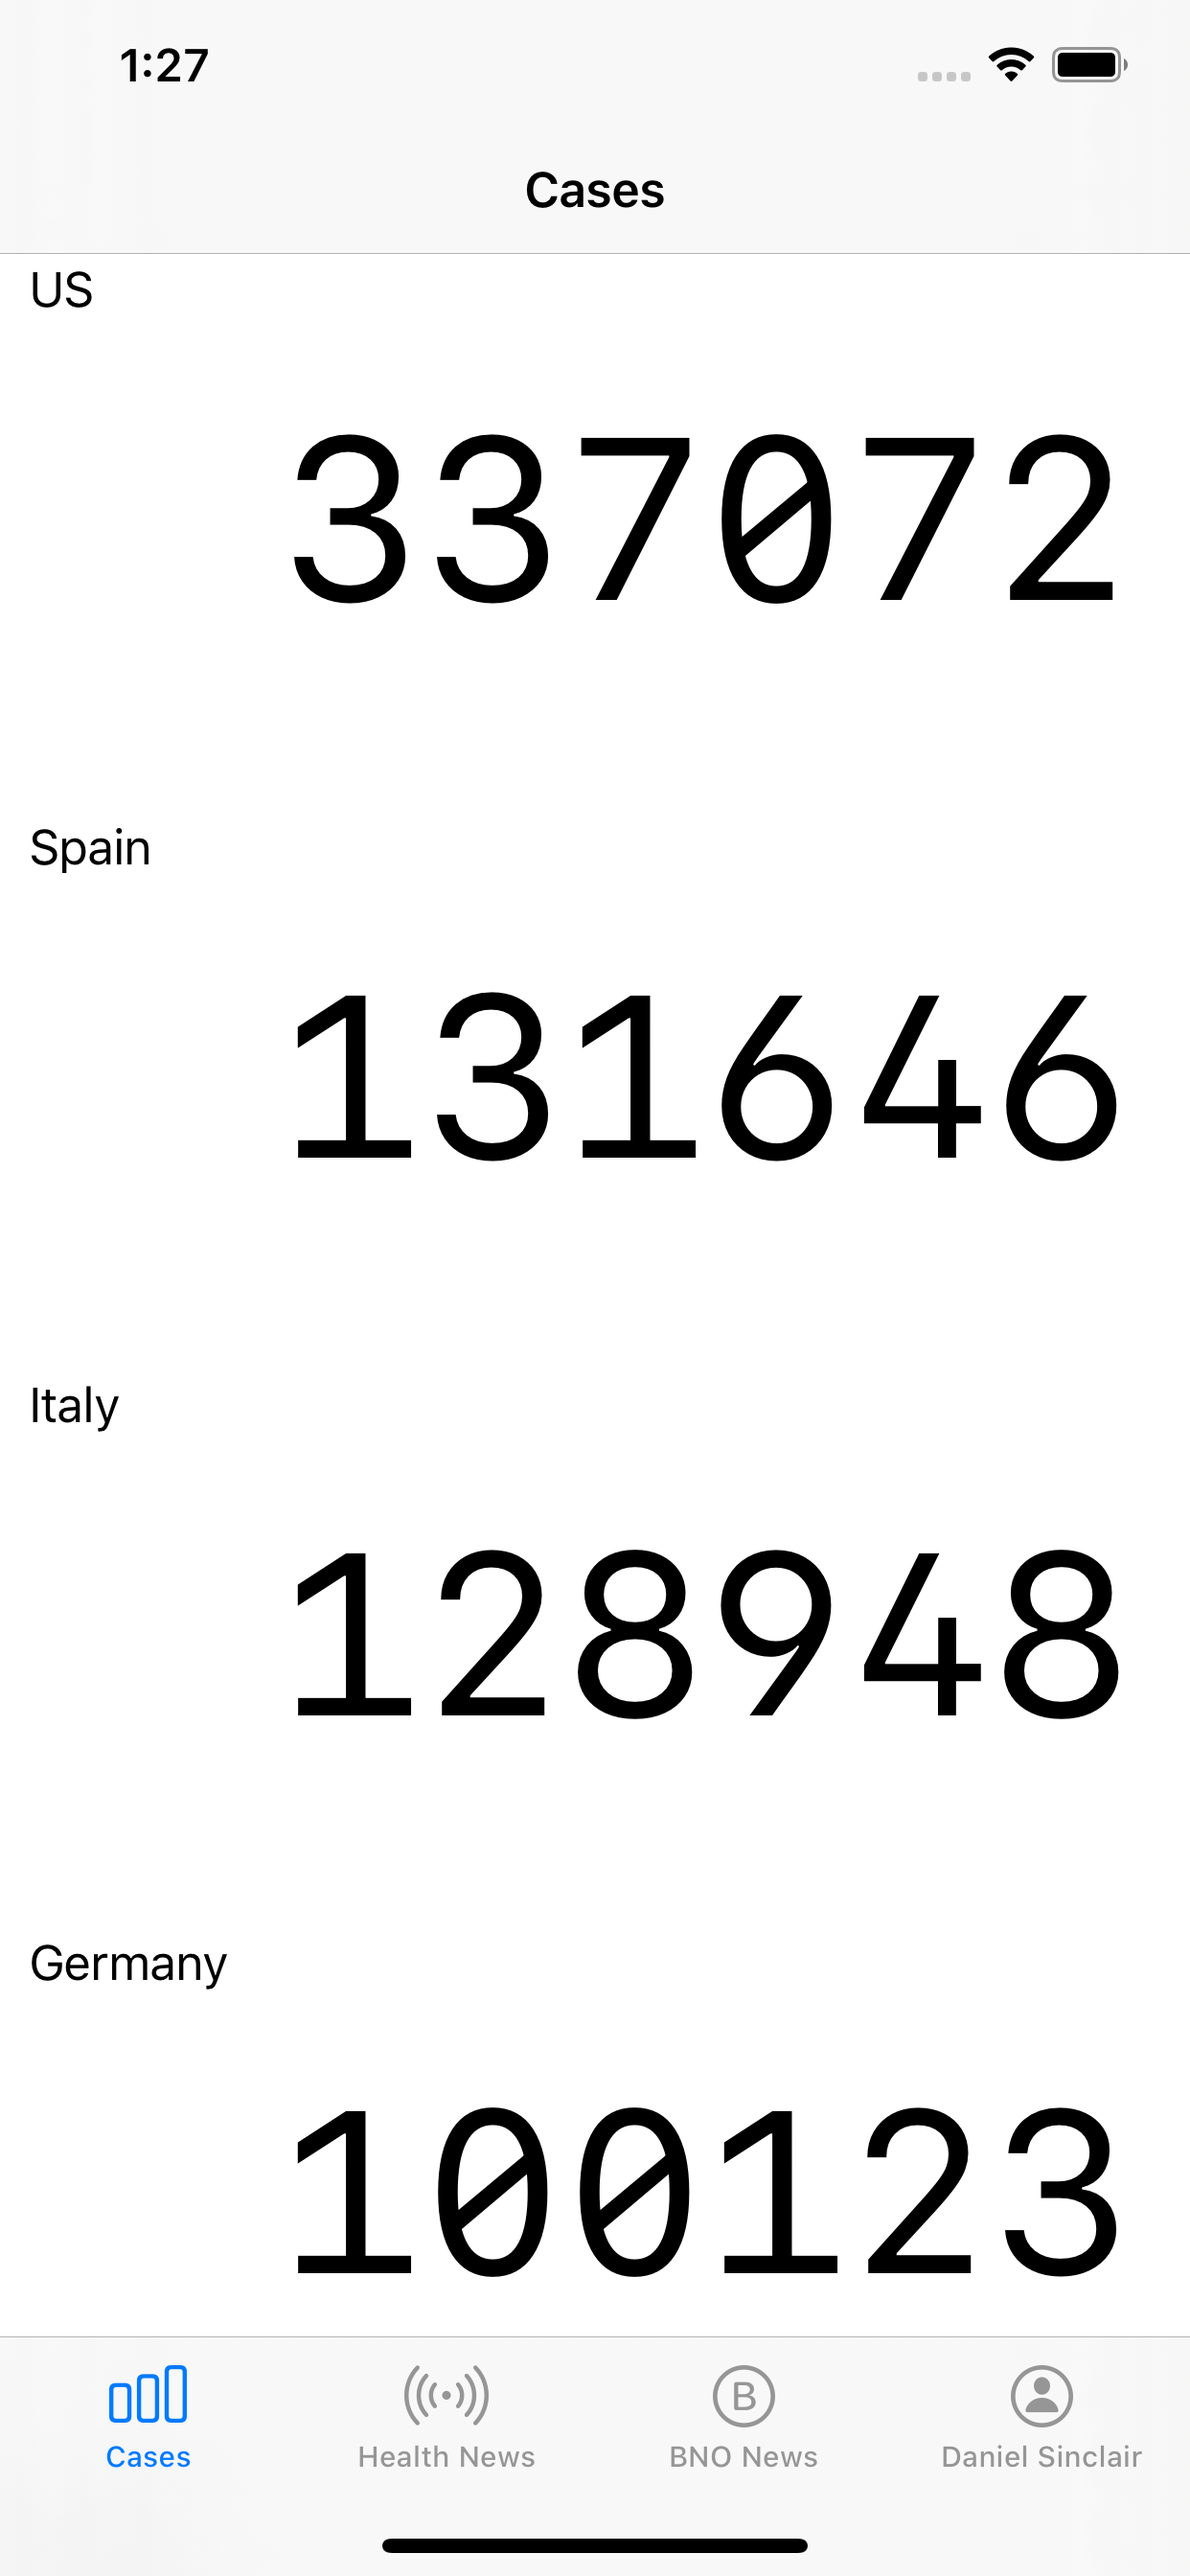
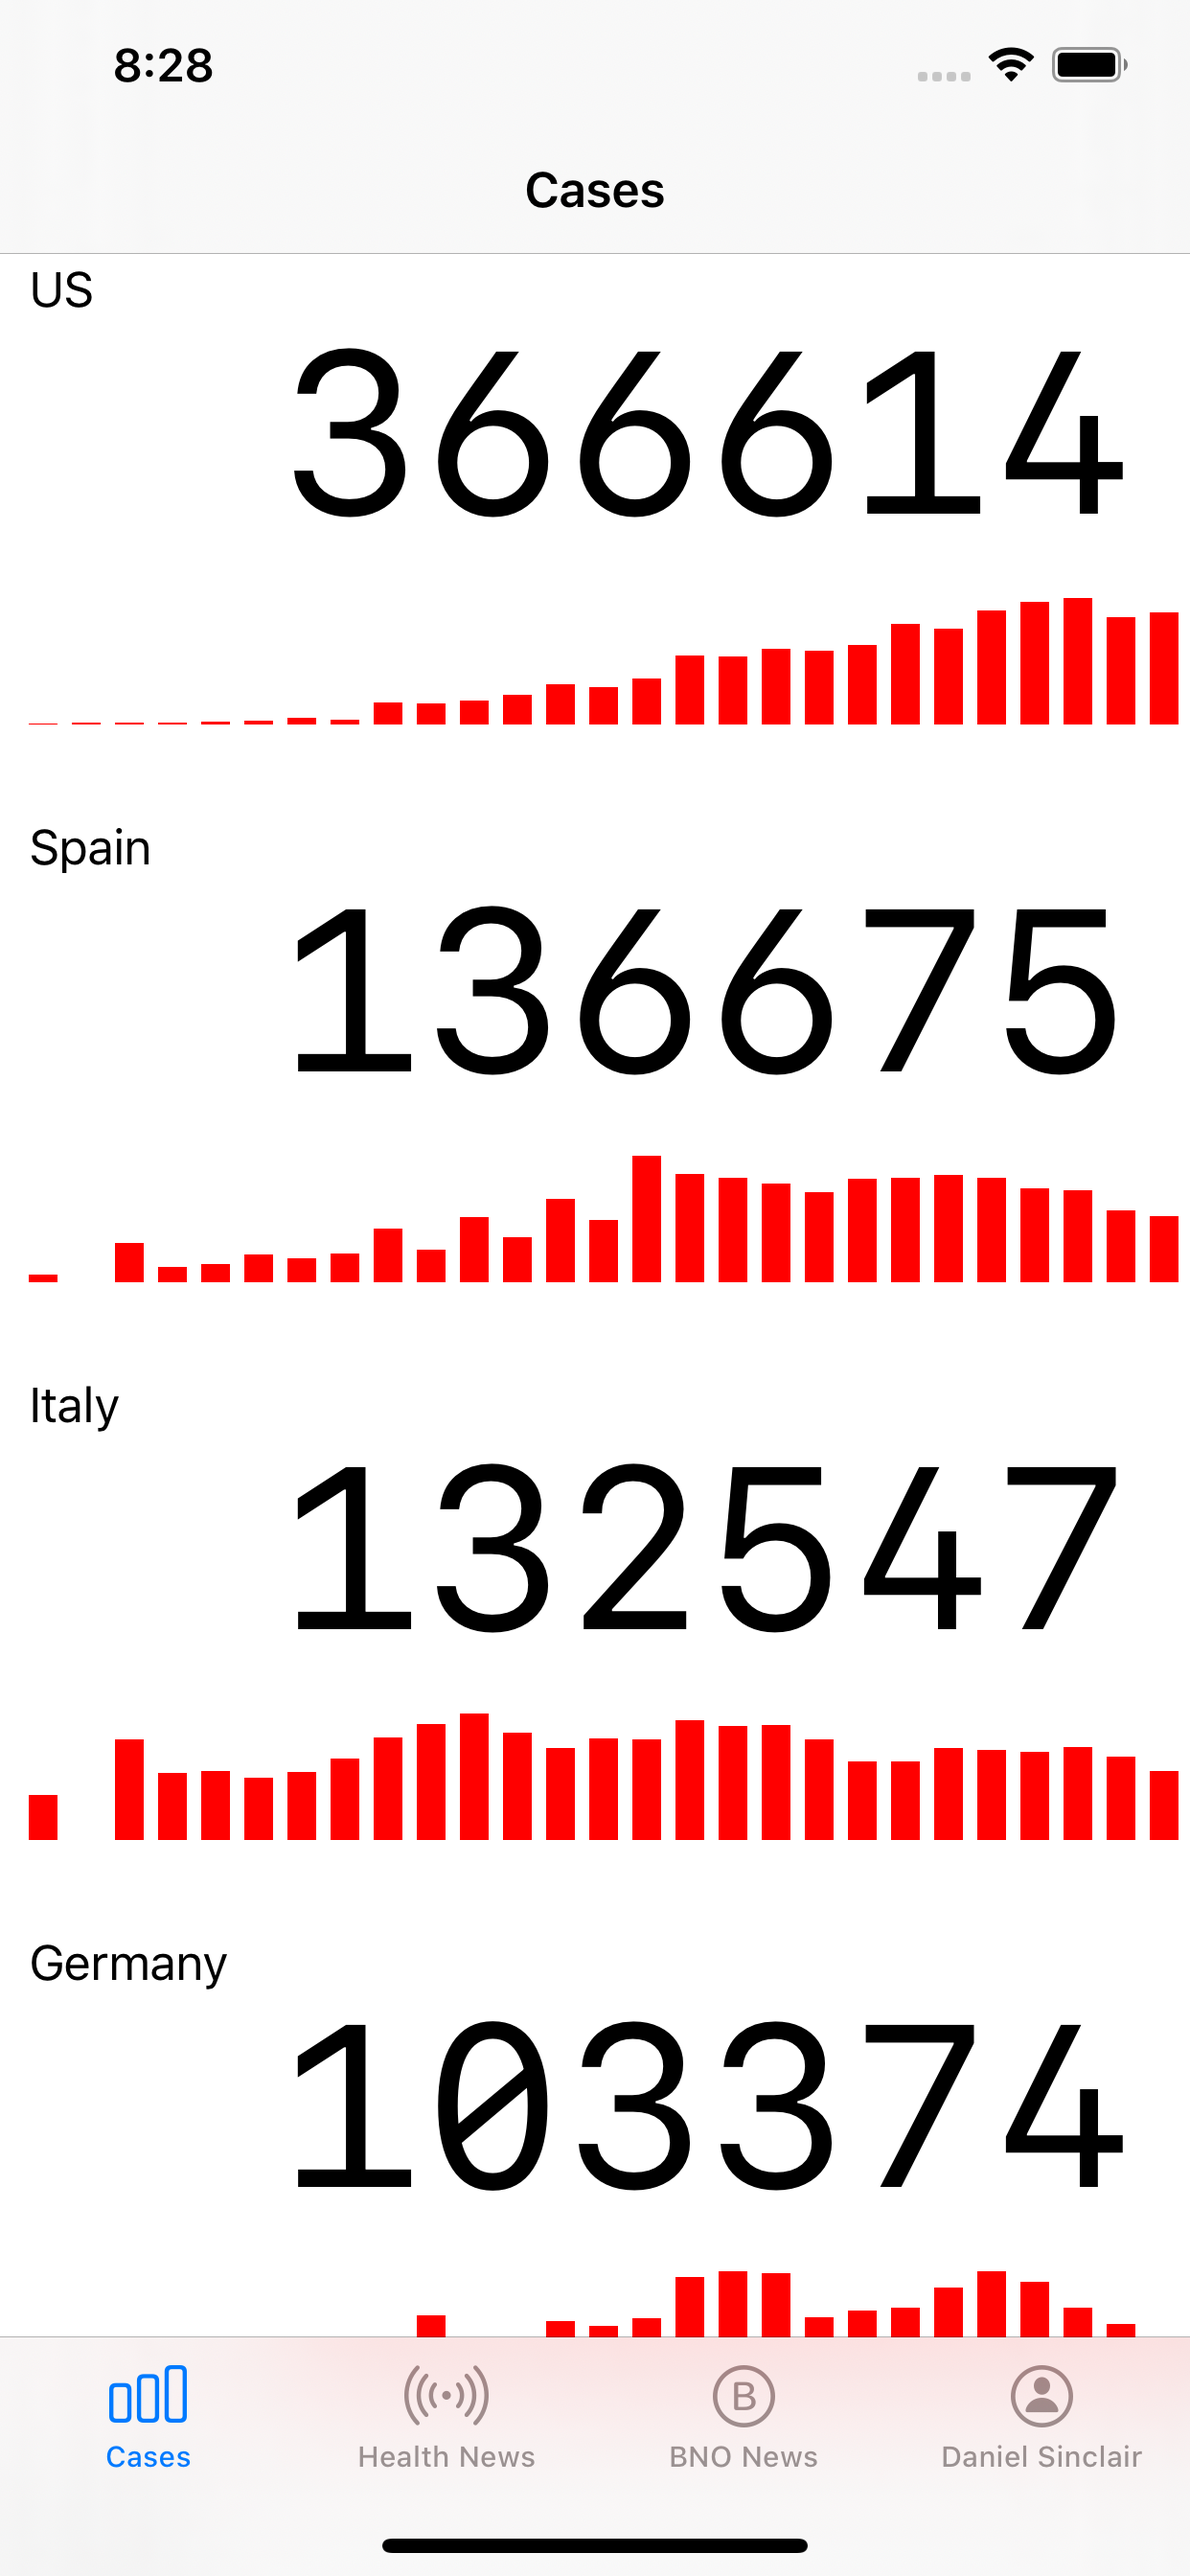
show data in bar graph

diff --git a/Xcode/covid19/DataViewController.swift b/Xcode/covid19/DataViewController.swift
@@ -49,7 +49,7 @@ class DataViewController: UIViewController {
     private func setup() {
         title = Constant.data.name
         collectionView = UICollectionView(frame: view.bounds, collectionViewLayout: createLayout())
-        collectionView?.register(UICollectionViewCell.self, forCellWithReuseIdentifier: "id")
+        collectionView?.register(BarCell.self, forCellWithReuseIdentifier: BarCell.cellId)
         collectionView?.register(DataView.self, forSupplementaryViewOfKind: DataViewController.sectionHeaderElementKind, withReuseIdentifier: DataView.viewId)
         collectionView?.backgroundColor = .white
         collectionView?.dataSource = self
@@ -108,10 +108,10 @@ extension DataViewController {
 
         let section = NSCollectionLayoutSection(group: group)
         section.interGroupSpacing = 5
-        section.contentInsets = NSDirectionalEdgeInsets(top: 0, leading: 10, bottom: 0, trailing: 10)
+        section.contentInsets = NSDirectionalEdgeInsets(top: 0, leading: 10, bottom: 30, trailing: 10)
 
         let headerFooterSize = NSCollectionLayoutSize(widthDimension: .fractionalWidth(1.0),
-                                                      heightDimension: .estimated(150))
+                                                      heightDimension: .estimated(120))
         let sectionHeader = NSCollectionLayoutBoundarySupplementaryItem(
             layoutSize: headerFooterSize,
             elementKind: DataViewController.sectionHeaderElementKind, alignment: .top)
@@ -125,7 +125,9 @@ extension DataViewController {
 
 extension DataViewController: UICollectionViewDataSource {
     func collectionView(_ collectionView: UICollectionView, numberOfItemsInSection section: Int) -> Int {
-        return 0
+        let country = countries[section]
+
+        return country.count()
     }
 
     func numberOfSections(in collectionView: UICollectionView) -> Int {
@@ -133,7 +135,10 @@ extension DataViewController: UICollectionViewDataSource {
     }
 
     func collectionView(_ collectionView: UICollectionView, cellForItemAt indexPath: IndexPath) -> UICollectionViewCell {
-        let cell = collectionView.dequeueReusableCell(withReuseIdentifier: "id", for: indexPath)
+        let cell = collectionView.dequeueReusableCell(withReuseIdentifier: BarCell.cellId, for: indexPath) as! BarCell
+
+        let country = self.countries[indexPath.section]
+        cell.height = country.height(index: indexPath.row, height: 44)
 
         return cell
     }
@@ -146,6 +151,91 @@ extension DataViewController: UICollectionViewDataSource {
         cell.label.attributedText = country.confirmedAttributedText()
 
         return cell
+    }
+}
+
+private extension Country {
+    func confirmedAttributedText() -> NSAttributedString {
+        let paragraphStyle = NSMutableParagraphStyle()
+        paragraphStyle.alignment = .right
+
+        let titleAttribute: [NSAttributedString.Key: Any] = [
+            .paragraphStyle: paragraphStyle,
+            .font: UIFont.monospacedSystemFont(ofSize: 80, weight: .regular)
+        ]
+
+        return NSMutableAttributedString.init(string: "\(latest.confirmed)", attributes: titleAttribute)
+    }
+}
+
+extension Country {
+    static let lastNumDays = 27
+
+    func count() -> Int {
+        Country.lastNumDays
+    }
+
+    func height(index: Int, height: CGFloat) -> CGFloat {
+        let cases = self.newCases()
+
+        let confirmed = cases[index]
+        if let max = cases.max() {
+          return CGFloat(confirmed) * height / CGFloat(max)
+        }
+
+        return 0
+    }
+
+    func newCases() -> [Int] {
+        var diff: [Int] = []
+
+        let dict = timelines.confirmed.timeline
+
+        let sorted = Array(dict.keys).sorted(by: { $1 > $0 })
+        let s = sorted.suffix(Country.lastNumDays + 1)
+        let keys = Array(s)
+
+        if var prev: Int = dict[keys[0]] {
+            for (k) in keys {
+                if let v = dict[k] {
+                    let d = v - prev
+                    diff.append(d)
+                    prev = v
+                }
+            }
+        }
+
+        let diffSuffix = diff.suffix(Country.lastNumDays)
+        return Array(diffSuffix)
+    }
+}
+
+class BarCell: UICollectionViewCell {
+    static let cellId = "BarCell"
+
+    let barView = UIView()
+
+    var height: CGFloat = 44
+
+    override func layoutSubviews() {
+        super.layoutSubviews()
+
+        barView.backgroundColor = .red
+
+        self.addSubview(barView)
+        barView.translatesAutoresizingMaskIntoConstraints = false
+
+        NSLayoutConstraint.activate([
+                barView.bottomAnchor.constraint(equalTo: contentView.bottomAnchor),
+                barView.heightAnchor.constraint(equalToConstant: height),
+                barView.leadingAnchor.constraint(equalTo: contentView.leadingAnchor),
+                barView.trailingAnchor.constraint(equalTo: contentView.trailingAnchor)
+            ])
+    }
+
+    override func prepareForReuse() {
+        super.prepareForReuse()
+        barView.removeConstraints(barView.constraints)
     }
 }
 
@@ -181,19 +271,5 @@ class DataView: UICollectionReusableView {
 
         dateLabel.attributedText = nil
         label.attributedText = nil
-    }
-}
-
-private extension Country {
-    func confirmedAttributedText() -> NSAttributedString {
-        let paragraphStyle = NSMutableParagraphStyle()
-        paragraphStyle.alignment = .right
-
-        let titleAttribute: [NSAttributedString.Key: Any] = [
-            .paragraphStyle: paragraphStyle,
-            .font: UIFont.monospacedSystemFont(ofSize: 80, weight: .regular)
-        ]
-
-        return NSMutableAttributedString.init(string: "\(latest.confirmed)", attributes: titleAttribute)
     }
 }
